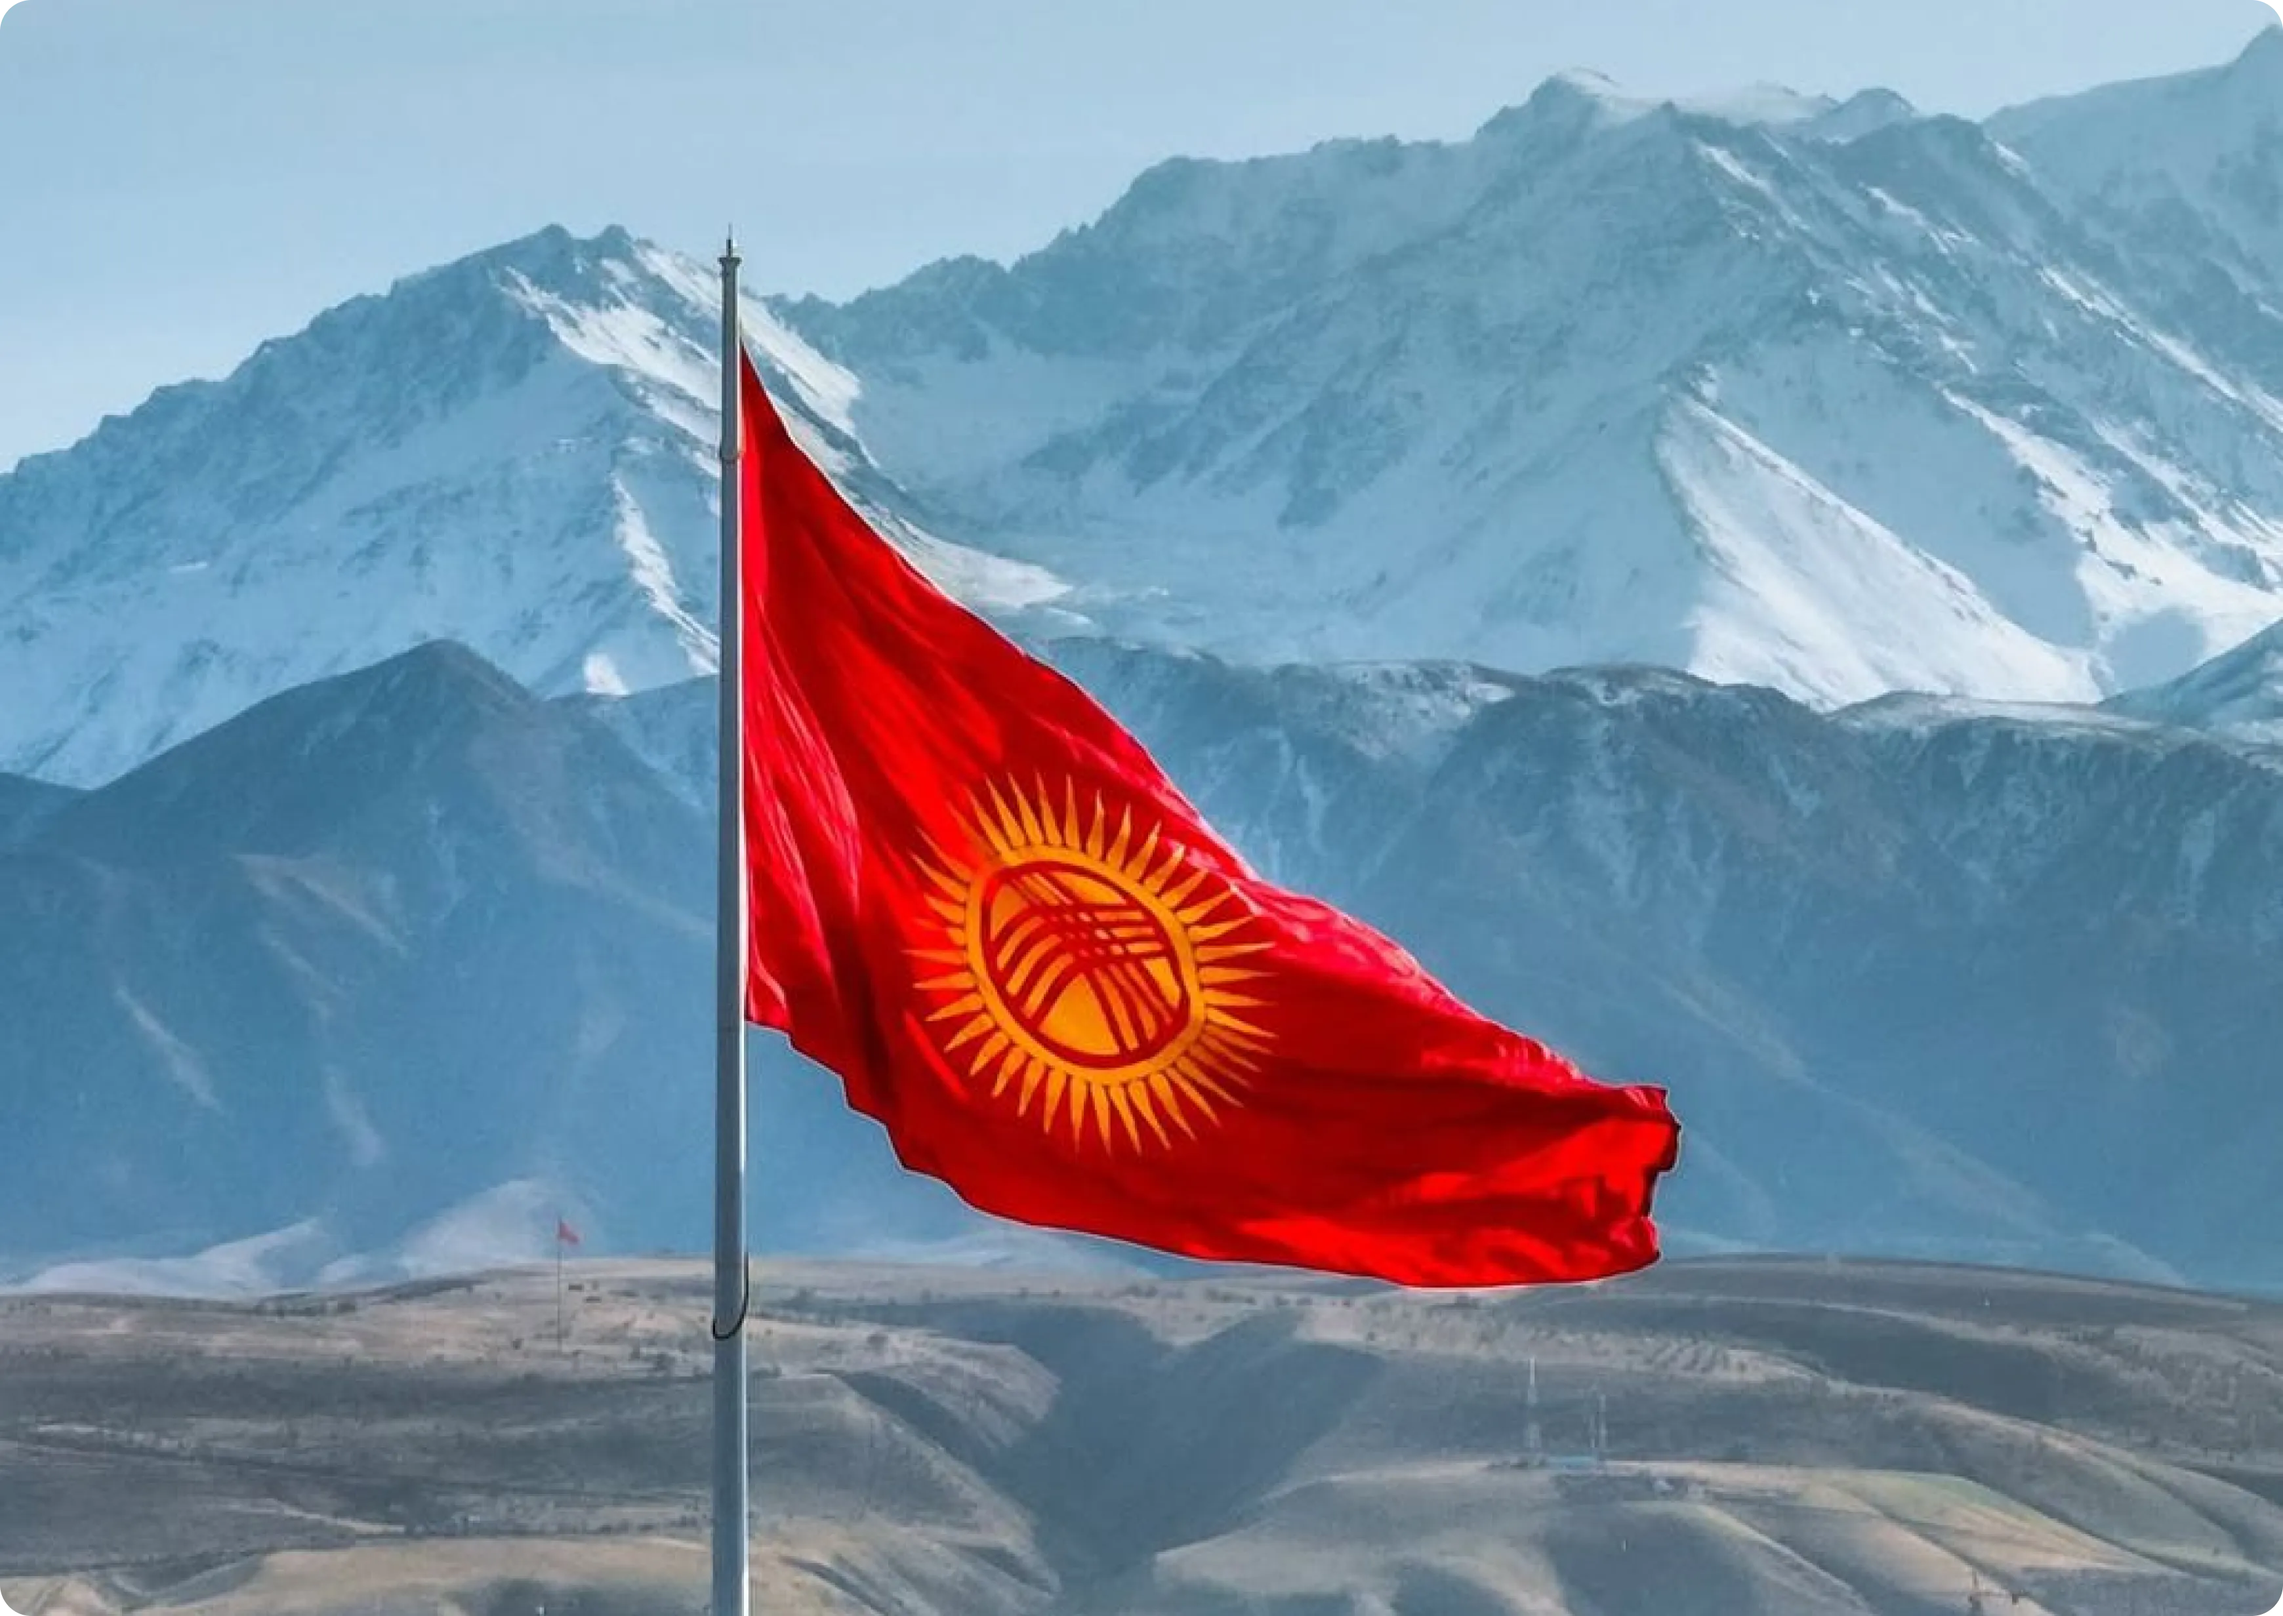
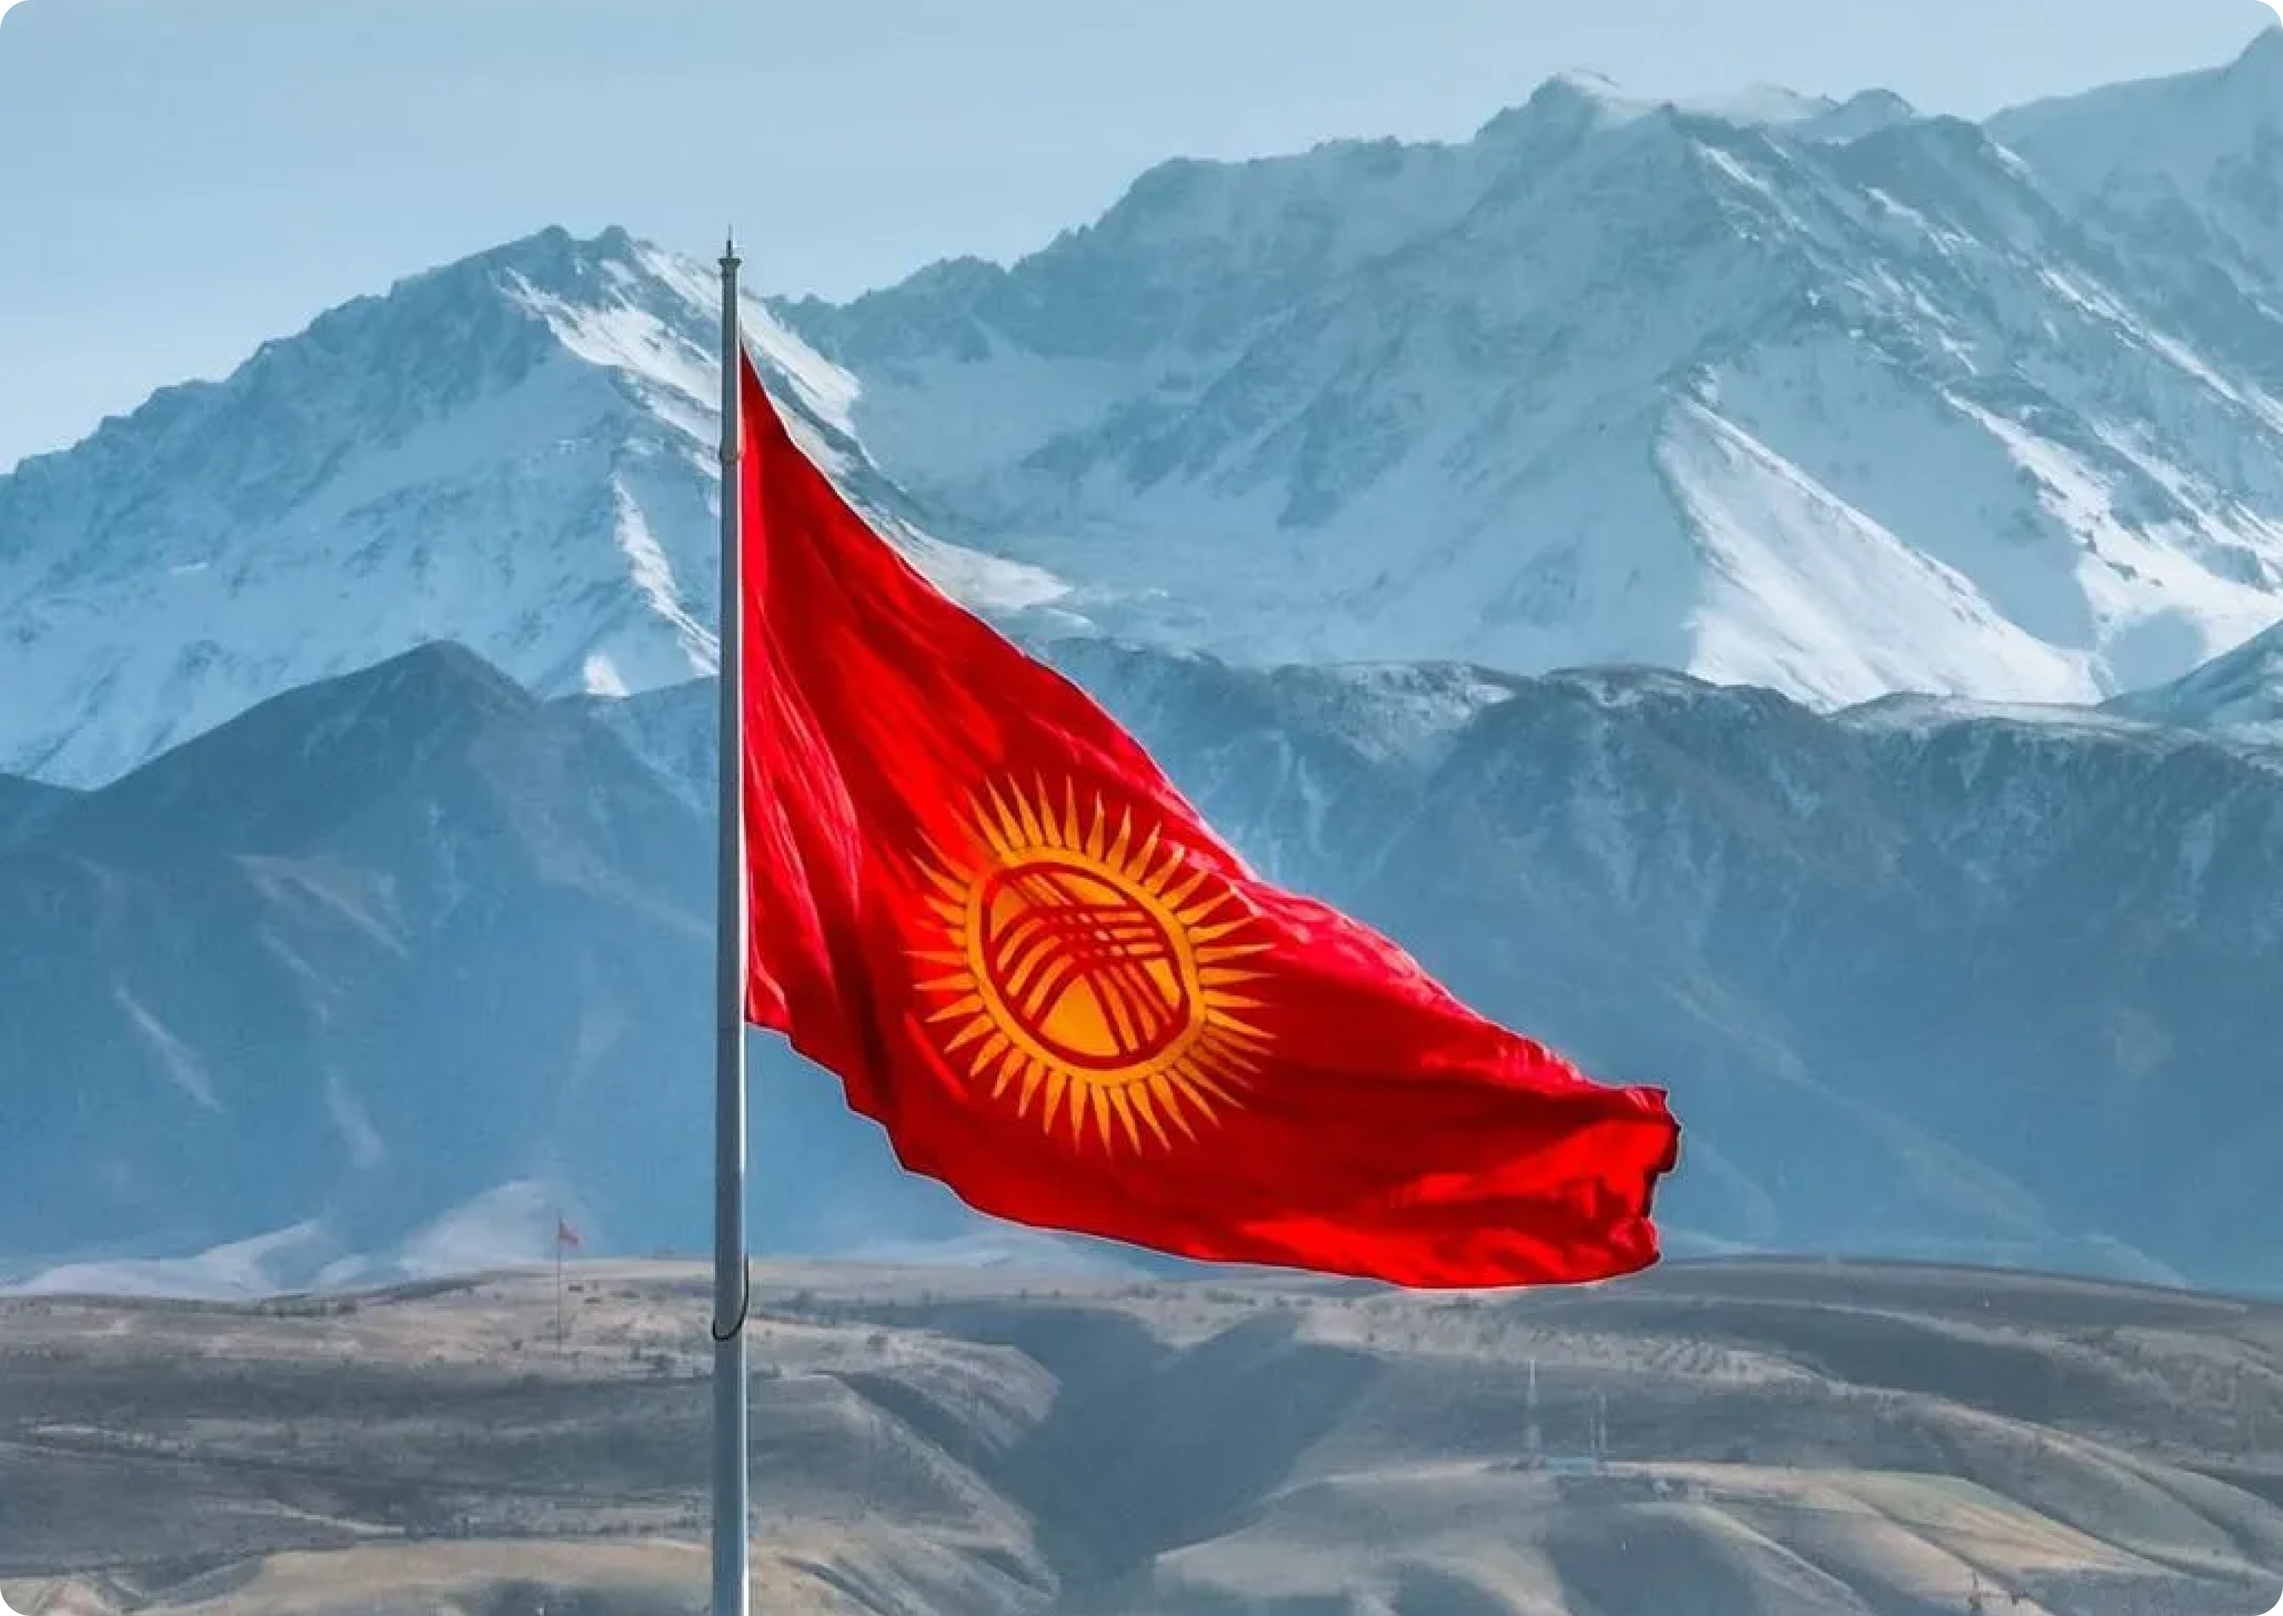
save

Changed region(s): [[0.4655, 0.5312, 0.5586, 0.625], [0.3724, 0.3125, 0.4034, 0.3438]]

diff --git a/src/widgets/region/ui/GlobalEvents.tsx b/src/widgets/region/ui/GlobalEvents.tsx
@@ -3,9 +3,16 @@
 import { useGSAP } from '@gsap/react'
 import gsap from 'gsap'
 import Image from 'next/image'
-import { useRef } from 'react'
+import { useRef, useState } from 'react'
+import { Navigation } from 'swiper/modules'
+import { Swiper, SwiperSlide } from 'swiper/react'
 
+import 'swiper/css'
+
+import { IconArrowHead } from '@/shared/icons/IconArrowHead'
 import { useAnimSlide } from '@/shared/lib/gsap/useAnimSlide'
+import { ButtonDefault } from '@/shared/ui/button/ButtonDefault'
+import { ButtonOutlined } from '@/shared/ui/button/ButtonOutlined'
 import { Container } from '@/shared/ui/container/container'
 
 export function GlobalEvents({
@@ -26,6 +33,8 @@ export function GlobalEvents({
 	const SubtitleRef = useRef<HTMLParagraphElement>(null)
 	const LogosRef = useRef<HTMLDivElement>(null)
 	const EventsGridRef = useRef<HTMLDivElement>(null)
+	const [isBeginning, setIsBeginning] = useState(true)
+	const [isEnd, setIsEnd] = useState(false)
 
 	useAnimSlide(TitleRef, { y: 50, delay: 0.1 })
 	useAnimSlide(SubtitleRef, { y: 50, delay: 0.2 })
@@ -96,20 +105,101 @@ export function GlobalEvents({
 						/>
 					</div>
 				</div>
-				<div
-					ref={EventsGridRef}
-					className="grid grid-cols-1 gap-x-[20px] gap-y-[30px] sm:grid-cols-2 lg:grid-cols-3 lg:gap-x-[30px] xl:grid-cols-4 2xl:gap-x-[60px]"
-				>
-					{events.map((event) => (
-						<div
-							key={event.id}
-							className="translate-y-[50px] opacity-0"
+
+				<div className="relative flex w-full flex-col gap-[30px] md:block">
+					<div className="relative w-full before:absolute before:top-[4.5px] before:left-0 before:z-1 before:h-px before:w-full before:bg-linear-to-r before:from-[#41754F] before:to-transparent">
+						<Swiper
+							modules={[Navigation]}
+							slidesPerView={1}
+							spaceBetween={30}
+							className="w-full overflow-visible"
+							navigation={{
+								nextEl: '#global-events-swiper-button-next',
+								prevEl: '#global-events-swiper-button-prev',
+							}}
+							breakpoints={{
+								320: {
+									slidesPerView: 1,
+									spaceBetween: 10,
+								},
+								480: {
+									slidesPerView: 2.2,
+									spaceBetween: 30,
+								},
+								1020: {
+									slidesPerView: 3,
+									spaceBetween: 60,
+								},
+							}}
+							onSwiper={(swiper) => {
+								setIsBeginning(swiper.isBeginning)
+								setIsEnd(swiper.isEnd)
+							}}
+							onSlideChange={(swiper) => {
+								setIsBeginning(swiper.isBeginning)
+								setIsEnd(swiper.isEnd)
+							}}
 						>
-							<h3 className="mb-[10px] text-[36px] leading-normal font-bold text-[#41754F]">{event.title}</h3>
-							<p className="mb-[10px] text-[20px] leading-normal font-bold text-text">{event.subtitle}</p>
-							<p className="text-[16px] leading-normal font-normal text-text">{event.text}</p>
+							{events.map((event) => (
+								<SwiperSlide
+									key={event.id}
+									className="relative rounded-[12px]"
+								>
+									<div className="relative pt-[40px] before:absolute before:top-0 before:left-0 before:z-1 before:h-[10px] before:w-[10px] before:rounded-full before:bg-[#41754F]">
+										<h3 className="mb-[10px] text-[36px] leading-normal font-bold text-[#41754F]">{event.title}</h3>
+										<p className="mb-[10px] text-[20px] leading-normal font-bold text-text">{event.subtitle}</p>
+										<p className="text-[16px] leading-normal font-normal text-text">{event.text}</p>
+									</div>
+								</SwiperSlide>
+							))}
+						</Swiper>
+					</div>
+					<div className="relative z-5 mt-[50px] flex items-center justify-start">
+						<div className={`flex items-center justify-start gap-[20px]`}>
+							<div className="flex items-center justify-start gap-[10px]">
+								<div id="global-events-swiper-button-prev">
+									{isBeginning ? (
+										<ButtonOutlined
+											icon={false}
+											className="pointer-events-none box-border h-[45px] w-[82px] cursor-default rounded-[8px]! p-[8px]! text-muted"
+										>
+											<IconArrowHead className="rotate-180 transform text-muted" />
+										</ButtonOutlined>
+									) : (
+										<ButtonDefault
+											icon={false}
+											className="h-[45px] w-[82px] rounded-[8px]! p-[8px]!"
+										>
+											<IconArrowHead className="rotate-180 transform" />
+										</ButtonDefault>
+									)}
+								</div>
+
+								<div id="global-events-swiper-button-next">
+									{isEnd ? (
+										<ButtonOutlined
+											icon={false}
+											className="pointer-events-none box-border h-[45px] w-[82px] cursor-default rounded-[8px]! p-[8px]! text-muted"
+										>
+											<IconArrowHead className="text-muted" />
+										</ButtonOutlined>
+									) : (
+										<ButtonDefault
+											icon={false}
+											className="h-[45px] w-[82px] rounded-[8px]! p-[8px]!"
+										>
+											<IconArrowHead />
+										</ButtonDefault>
+									)}
+								</div>
+							</div>
+							{/* <div className="text-muted-light text-[24px] leading-normal font-normal">
+								<span className="text-text text-[24px] leading-normal font-normal md:text-white">{activeSlide + 1}</span>
+								<span>/</span>
+								<span className="font-normal] text-[16px] leading-normal">{images?.length}</span>
+							</div> */}
 						</div>
-					))}
+					</div>
 				</div>
 			</Container>
 		</section>

diff --git a/src/widgets/region/ui/AboutRegion.tsx b/src/widgets/region/ui/AboutRegion.tsx
@@ -128,7 +128,7 @@ export default function AboutRegion({
 						</div>
 						<p
 							ref={Text2Ref}
-							className="relative z-1 mb-[20px] translate-y-[50px] text-[14px] leading-normal text-text opacity-0 sm:mb-[25px] sm:text-[15px] md:mb-[30px] md:text-justify md:text-[16px]"
+							className="relative z-1 mb-[20px] translate-y-[50px] text-justify text-[14px] leading-normal text-text opacity-0 sm:mb-[25px] sm:text-[15px] md:mb-[30px] md:text-[16px]"
 						>
 							{text2}
 						</p>

diff --git a/src/widgets/region/ui/FloraAndFauna.tsx b/src/widgets/region/ui/FloraAndFauna.tsx
@@ -132,7 +132,7 @@ export function FloraAndFauna({
 								</h3>
 								<p
 									ref={DescriptionRef}
-									className="max-w-[860px] translate-y-[50px] text-[16px] leading-normal font-normal whitespace-pre-line text-text opacity-0 md:text-justify md:text-white"
+									className="max-w-[860px] translate-y-[50px] text-justify text-[16px] leading-normal font-normal whitespace-pre-line text-text opacity-0 md:text-white"
 								>
 									{localizedDescription}
 								</p>

diff --git a/src/widgets/region/ui/Climate.tsx b/src/widgets/region/ui/Climate.tsx
@@ -60,7 +60,7 @@ export function Climate({
 						</h3>
 						<p
 							ref={TextRef}
-							className="relative z-1 mb-[20px] translate-y-[50px] text-[14px] leading-normal text-text opacity-0 sm:mb-[25px] sm:text-[15px] md:mb-[30px] md:text-justify md:text-[16px]"
+							className="relative z-1 mb-[20px] translate-y-[50px] text-justify text-[14px] leading-normal text-text opacity-0 sm:mb-[25px] sm:text-[15px] md:mb-[30px] md:text-[16px]"
 						>
 							{climateText2}
 						</p>

diff --git a/src/widgets/region/ui/ColumnInitiatives.tsx b/src/widgets/region/ui/ColumnInitiatives.tsx
@@ -32,7 +32,7 @@ export function ColumnInitiatives({
 								className="mb-[60px] last:mb-0"
 							>
 								<h3 className="mb-[10px] text-[20px] leading-normal font-bold text-text">{item.title}</h3>
-								<p className="text-[16px] leading-normal font-normal text-text">{item.description}</p>
+								<p className="text-justify text-[16px] leading-normal font-normal text-text">{item.description}</p>
 							</div>
 						))}
 					</div>

diff --git a/src/widgets/region/ui/StrategicDocuments.tsx b/src/widgets/region/ui/StrategicDocuments.tsx
@@ -89,7 +89,7 @@ export function StrategicDocuments({
 									<li
 										key={document.id}
 										className={[
-											`mb-[8px] flex justify-start gap-[10px] text-[13px] text-white sm:mb-[10px] sm:text-[14px] md:text-[16px]`,
+											`mb-[8px] flex justify-start gap-[10px] text-justify text-[13px] text-white sm:mb-[10px] sm:text-[14px] md:text-[16px]`,
 											listItemClass,
 										].join(' ')}
 									>

diff --git a/src/app/[locale]/region/kyrgyzstan/page.tsx b/src/app/[locale]/region/kyrgyzstan/page.tsx
@@ -14,6 +14,7 @@ const IMGS = [
 		id: 1,
 		img: '/imgs/regions/kg/kg-flag.webp',
 		alt: 'Region Img 1',
+		quality: 100,
 		width: 612,
 		height: 408,
 	},
